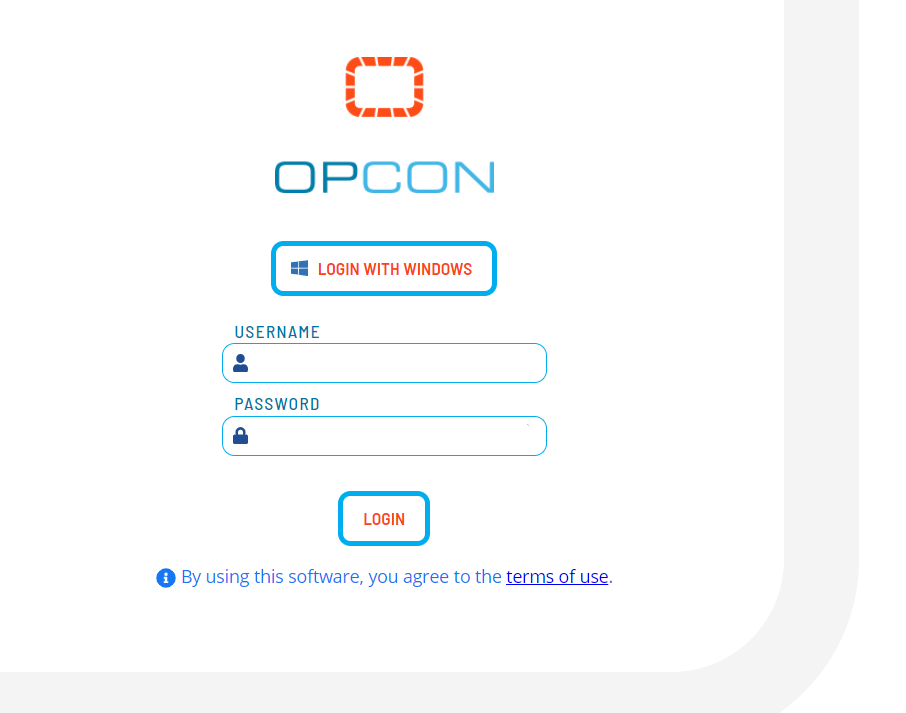
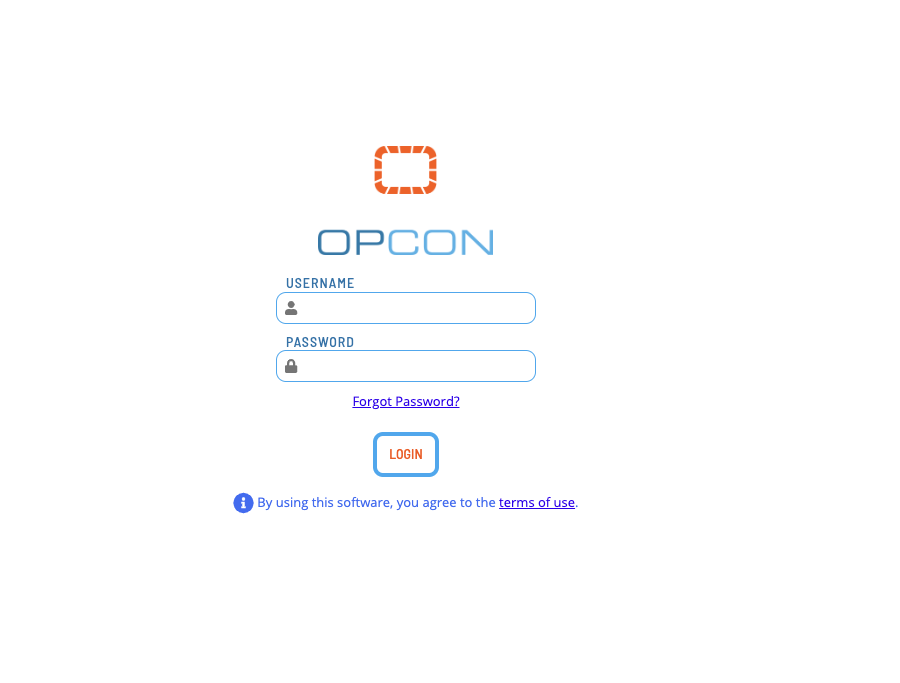
Add: Otto skills documentation

diff --git a/sidebars.js b/sidebars.js
@@ -395,6 +395,7 @@ module.exports = {
             'Files/UI/Solution-Manager/Getting-Started',
             'Files/UI/Solution-Manager/Application-Help',
             'Files/UI/Solution-Manager/Logging-In',
+            'Files/UI/Solution-Manager/Forgot-Password-Login',
             'Files/UI/Solution-Manager/Migrating-Data',
             {
               type: 'category',
@@ -770,6 +771,32 @@ module.exports = {
                   ],
                 },
               ],
+            },
+            {
+              type: 'category',
+              label: 'Otto',
+              collapsed: true,
+              items: [
+                "Files/UI/Solution-Manager/Otto/Otto-Chatbot",
+                {
+                  type: "category",
+                  label: "Skills",
+                  collapsed: true,
+                  items: [
+                    "Files/UI/Solution-Manager/Otto/Skills/Skills-Overview",
+                    "Files/UI/Solution-Manager/Otto/Skills/Skill-Add-Daily-Job",
+                    "Files/UI/Solution-Manager/Otto/Skills/Skill-Build-Schedule",
+                    "Files/UI/Solution-Manager/Otto/Skills/Skill-Delete-Daily-Job",
+                    "Files/UI/Solution-Manager/Otto/Skills/Skill-Get-Failed-Jobs",
+                    "Files/UI/Solution-Manager/Otto/Skills/Skill-Get-Failed-Schedules",
+                    "Files/UI/Solution-Manager/Otto/Skills/Skill-Perform-A-Fast-Schedule-Check",
+                    "Files/UI/Solution-Manager/Otto/Skills/Skill-Restart-Failed-Jobs",
+                    "Files/UI/Solution-Manager/Otto/Skills/Skill-Update-Job-Status",
+                    "Files/UI/Solution-Manager/Otto/Skills/Skill-Update-Machine-Status",
+                    "Files/UI/Solution-Manager/Otto/Skills/Skill-Update-Schedule-Status",
+                  ]
+                }
+              ]
             },
             'Files/UI/Solution-Manager/Using-PERT-View',
             'Files/UI/Solution-Manager/Managing-Daily-Processes',

diff --git a/docs/Files/UI/Solution-Manager/Otto/Skills/Skill-Add-Daily-Job.md b/docs/Files/UI/Solution-Manager/Otto/Skills/Skill-Add-Daily-Job.md
@@ -1,0 +1,29 @@
+---
+lang: en-us
+title: Otto Skill - Add Daily Job
+viewport: width=device-width, initial-scale=1.0
+---
+
+# Overview
+
+The **Add Daily Job** skill allows you to add a new daily job to a specified daily schedule for a specified date, with a specified frequency, and status.
+
+## Skill Details
+
+- **Skill Name**: `add-daily-job`
+
+### Parameters
+
+The **Add Daily Job** skill requires the following parameters:
+
+- **Date** _(string)_: The specified schedule's date where the job will be added.
+- **Frequency Name** _(string)_: The name of the frequency where the job will be added. If not specified, the default frequency will be used.
+- **Job Name** _(string)_: The name of the job to be added.
+- **Schedule Name**: _(string)_ The name of the daily schedule where the job will be added.
+- **Status** _(string)_: The status in which the job will be added, options: `released`, `onHold`
+
+## Example
+
+`Add daily job on 2021-12-31 for frequency Daily, job name TestJob, schedule name TestSchedule, status released`
+
+`Please add a daily job with a name of "TestJob", a status of "released", and a frequency of "Daily" to the schedule "TestSchedule" for today.`

diff --git a/docs/Files/UI/Solution-Manager/Otto/Otto-Chatbot.md b/docs/Files/UI/Solution-Manager/Otto/Otto-Chatbot.md
@@ -1,11 +1,18 @@
 ---
 lang: en-us
-title: Managing Studio
+title: AI Chatbot Overview
 viewport: width=device-width, initial-scale=1.0
 ---
 
 # Overview
 
-Otto is the name of the AI chatbot that is available in Solution Manager. It is designed to help users answer questions about all things OpCon. Coming soon, Otto will be available in the bottom-right corner of the screen and can be accessed by clicking on the chat icon.
+Otto is the name of the AI chatbot that is available in Solution Manager. Otto can understand and respond to natural language questions. It is designed to help users answer questions about all things OpCon and help with executing specific skills. Otto is available at the bottom-right corner of the screen and can be accessed by clicking on the chat icon.
 
 ![Chatbot](../../../../Resources/Images/SM/Otto/Chatbot-Overview.png "Chatbot")
+
+## Features
+
+Otto has the following features:
+
+- **Search**: Otto can search the OpCon documentation for answers to your questions.
+- **Skills**: Otto can perform certain tasks in OpCon for you.

diff --git a/docs/Files/UI/Solution-Manager/Otto/Skills/Skill-Build-Schedule.md b/docs/Files/UI/Solution-Manager/Otto/Skills/Skill-Build-Schedule.md
@@ -1,0 +1,28 @@
+---
+lang: en-us
+title: Otto Skill - Build Schedule
+viewport: width=device-width, initial-scale=1.0
+---
+
+# Overview
+
+The **Build Schedule** skill allows you to build a schedule for a specified date, and either place it on hold or release it, and optionally overwrite an existing build.
+
+## Skill Details
+
+- **Skill Name**: `build-schedule`
+
+### Parameters
+
+The **Build Schedule** skill requires the following parameters:
+
+- **Date** _(string)_: The specified date when the schedule will be built.
+- **Hold** _(boolean)_: Determines whether to place schedule on hold or released. True if hold, false if release, and defaults to true
+- **Overwrite** _(boolean)_: Determines whether to overwrite an existing build, defaults to false
+- **Schedule Name** _(string)_: The name of the daily schedule to build.
+
+## Example
+
+`Build schedule TestSchedule for today`
+
+`Please build the schedule with name "TestSchedule" for today, and release it. Do not overwrite the existing schedule.`

diff --git a/docs/Files/UI/Solution-Manager/Otto/Skills/Skill-Update-Job-Status.md b/docs/Files/UI/Solution-Manager/Otto/Skills/Skill-Update-Job-Status.md
@@ -1,0 +1,28 @@
+---
+lang: en-us
+title: Otto Skill - Update Job Status
+viewport: width=device-width, initial-scale=1.0
+---
+
+# Overview
+
+The **Update Job Status** skill allows you to perform an action to update the status of a daily job on a specified schedule for a specified date.
+
+## Skill Details
+
+- **Skill Name**: `update-job-status`
+
+### Parameters
+
+The **Update Job Status** skill requires the following parameters:
+
+- **Action** _(string)_: The action to update the job status - must be one of: `release`, `restart`, `forcerestart`
+- **Date** _(string)_: The specified date for the job.
+- **Job Name** _(string)_: The name of the job to update.
+- **Schedule Name** _(string)_: The name of the daily schedule for the updated job.
+
+## Example
+
+`Update job TestJob to status "released" on schedule TestSchedule for today`
+
+`Please update the job with the name "TestJob" to the status "released" on the schedule "TestSchedule" for today.`

diff --git a/docs/Files/UI/Solution-Manager/Otto/Skills/Skill-Update-Schedule-Status.md b/docs/Files/UI/Solution-Manager/Otto/Skills/Skill-Update-Schedule-Status.md
@@ -1,0 +1,27 @@
+---
+lang: en-us
+title: Otto Skill - Update Schedule Status
+viewport: width=device-width, initial-scale=1.0
+---
+
+# Overview
+
+The **Update Schedule Status** skill allows you to update the status of the specified daily schedule for the specified date. The status can be set to `release`, `hold`, `start`, or `close`.
+
+## Skill Details
+
+- **Skill Name**: `update-schedule-status`
+
+### Parameters
+
+The **Update Schedule Status** skill requires the following parameters:
+
+- **Date** _(string)_: The specified updated schedule's date.
+- **Schedule Name**: _(string)_ The name of the daily schedule to be updated.
+- **Status** _(string)_: The status to be applied to the schedule, options: `release`, `hold`, `start`, `close`
+
+## Example
+
+`Update schedule TestSchedule to status "release" for today`
+
+`Please update the status of the schedule with the name "TestSchedule" to the status "release" for today.`

diff --git a/docs/Files/UI/Solution-Manager/Otto/Skills/Skills-Overview.md b/docs/Files/UI/Solution-Manager/Otto/Skills/Skills-Overview.md
@@ -1,0 +1,15 @@
+---
+lang: en-us
+title: Skills Overview
+viewport: width=device-width, initial-scale=1.0
+---
+
+# Overview
+
+Skills are a way to perform specific tasks in OpCon directly via the Otto chatbot. Skills are designed to help users execute tasks in OpCon without having to navigate through the OpCon UI. Each skill is mapped to a specific api endpoint in OpCon and can be executed by directly asking Otto to perform the task. Each skill is defined in the OpCon API documentation.
+
+## Accessing Skills
+
+To access and execute a specific skill, ask Otto to perform the task. If the skill is available and enabled, Otto will respond with a confirmation message before executing the task. If the skill is not available/enabled or if the skill failed to execute successfully, Otto will respond with an error message.
+
+![Skills Example](../../../../../Resources/Images/SM/Otto/Skills-Overview-Example.png "Skills Example")

diff --git a/docs/Files/UI/Solution-Manager/Otto/Skills/Skill-Delete-Daily-Job.md b/docs/Files/UI/Solution-Manager/Otto/Skills/Skill-Delete-Daily-Job.md
@@ -1,0 +1,27 @@
+---
+lang: en-us
+title: Otto Skill - Delete Daily Job
+viewport: width=device-width, initial-scale=1.0
+---
+
+# Overview
+
+The **Delete Daily Job** skill allows you to delete a specified job from the specified daily schedule for the specified date.
+
+## Skill Details
+
+- **Skill Name**: `delete-daily-job`
+
+### Parameters
+
+The **Delete Daily Job** skill requires the following parameters:
+
+- **Date** _(string)_: The specified date of the job that will be deleted.
+- **Job Name** _(string)_: The name of the job to be deleted.
+- **Schedule Name** _(string)_: The name of the daily schedule on which the job name is to be deleted from.
+
+## Example
+
+`Delete job TestJob from schedule TestSchedule for today`
+
+`Please delete the job with the name "TestJob" from the schedule "TestSchedule" for today.`

diff --git a/docs/Files/UI/Solution-Manager/Otto/Skills/Skill-Update-Machine-Status.md b/docs/Files/UI/Solution-Manager/Otto/Skills/Skill-Update-Machine-Status.md
@@ -1,0 +1,26 @@
+---
+lang: en-us
+title: Otto Skill - Update Machine Status
+viewport: width=device-width, initial-scale=1.0
+---
+
+# Overview
+
+The **Update Machine Status** skill allows you to perform an action to update the status of a machine. The machine status must be one of: `limited`, `up`, `down`.
+
+## Skill Details
+
+- **Skill Name**: `update-machine-status`
+
+### Parameters
+
+The **Update Machine Status** skill requires the following parameters:
+
+- **Action** _(string)_: The action to update machine status - must be one of: `limited`, `up`, `down`.
+- **Machine Name** _(string)_: The name of the updated machine.
+
+## Example
+
+`Update machine TestMachine to status "up"`
+
+`Please update the status of machine with the name "TestMachine" to the status "up".`

diff --git a/docs/Files/UI/Solution-Manager/Otto/Skills/Skill-Perform-A-Fast-Schedule-Check.md b/docs/Files/UI/Solution-Manager/Otto/Skills/Skill-Perform-A-Fast-Schedule-Check.md
@@ -1,0 +1,26 @@
+---
+lang: en-us
+title: Otto Skill - Perform a Fast Schedule Check
+viewport: width=device-width, initial-scale=1.0
+---
+
+# Overview
+
+The **Perform a Fast Schedule Check** skill allows you to perform a schedule check for the given schedule for the given date.
+
+## Skill Details
+
+- **Skill Name**: `perform-a-fast-schedule-check`
+
+### Parameters
+
+The **Perform a Fast Schedule Check** skill requires the following parameters:
+
+- **Date** _(string)_: The specified date of the schedule to check.
+- **Schedule Name** _(string)_: The name of the daily schedule to check.
+
+## Example
+
+`Check schedule TestSchedule for today`
+
+`Please check the schedule with the name "TestSchedule" for today.`

diff --git a/docs/Files/UI/Solution-Manager/Otto/Skills/Skill-Restart-Failed-Jobs.md b/docs/Files/UI/Solution-Manager/Otto/Skills/Skill-Restart-Failed-Jobs.md
@@ -1,0 +1,26 @@
+---
+lang: en-us
+title: Otto Skill - Restart Failed Jobs
+viewport: width=device-width, initial-scale=1.0
+---
+
+# Overview
+
+The **Restart Failed Jobs** skill allows you to restart all failed jobs in a specified schedule for a specified date.
+
+## Skill Details
+
+- **Skill Name**: `restart-failed-jobs`
+
+### Parameters
+
+The **Restart Failed Jobs** skill requires the following parameters:
+
+- **Date** _(string)_: The specified date of the jobs to restart.
+- **Schedule Name** _(string)_: The name of the schedule on which to restart all jobs.
+
+## Example
+
+`Restart Failed Jobs TestSchedule for today`
+
+`Please restart all failed jobs in the schedule "TestSchedule" for today.`

diff --git a/docs/Files/UI/Solution-Manager/Otto/Skills/Skill-Get-Failed-Schedules.md b/docs/Files/UI/Solution-Manager/Otto/Skills/Skill-Get-Failed-Schedules.md
@@ -1,0 +1,25 @@
+---
+lang: en-us
+title: Otto Skill - Get Failed Schedules
+viewport: width=device-width, initial-scale=1.0
+---
+
+# Overview
+
+The **Get Failed Schedules** skill allows you to retrieve a list of failed schedules for a specified date.
+
+## Skill Details
+
+- **Skill Name**: `update-schedule-status`
+
+### Parameters
+
+The **Get Failed Schedules** skill requires the following parameters:
+
+- **Date** _(string)_: The date for which the failed schedules will be retrieved.
+
+## Example
+
+`Get failed schedules for today`
+
+`Please retrieve the list of failed schedules for today.`
